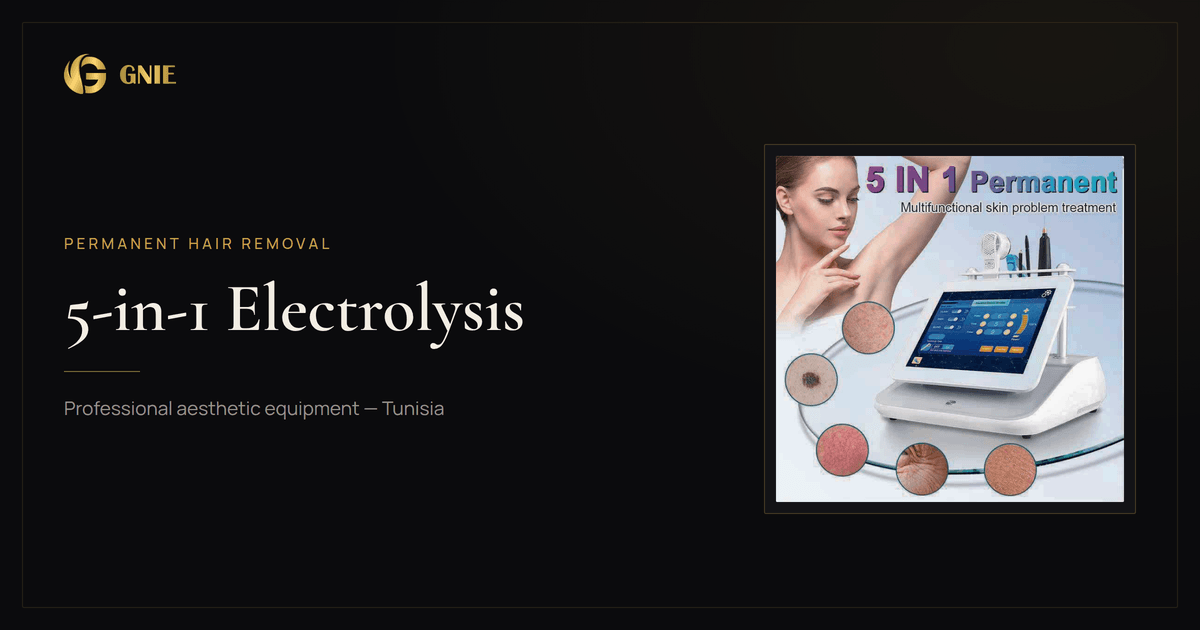
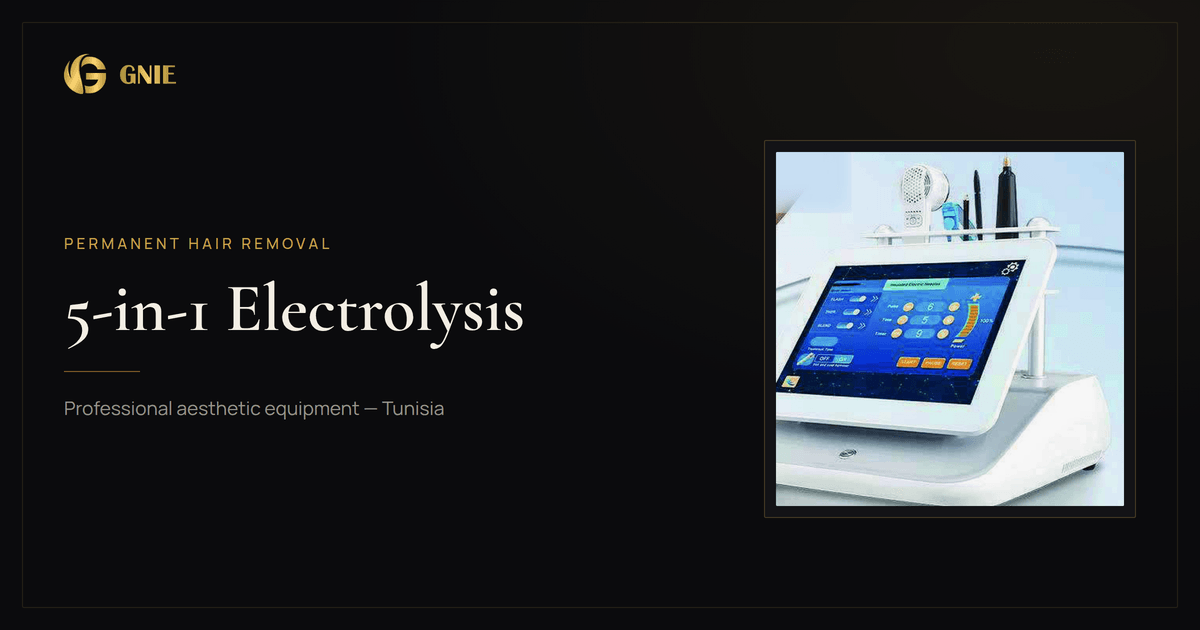
Per-page social cards; replace the Électrolyse hero
Every page shared one fallback image — a portrait logo at 831x1148, which a
summary_large_image card crops to a centre slice of the wordmark. Machine
pages were slightly worse: they passed the raw manufacturer hero, four of
which are under the 600px width where Facebook and LinkedIn degrade the card,
and none of which is anywhere near 1.91:1.

Adds scripts/og/, which renders 34 cards at 1200x630 — 12 machines x 2
languages plus home, catalogue, contact, legal and privacy per locale. The
page list comes from the content collection and the route table, so a 13th
machine needs no edit; a brand-new route stops the script rather than letting
it invent a title. Deterministic: two runs produce byte-identical files.
2077 KB total, 61 KB average.

Base.astro derives the card path from the page's own identity (locale, page
key, slug), so no page passes anything in; MachinePage no longer overrides it
with the raw photo. og:image:width/height/type/alt and twitter:image:alt are
emitted too, so scrapers lay the card out on first fetch instead of showing a
blank while they fetch it.

The Électrolyse hero is replaced. It was a manufacturer collage with burned-in
English marketing text ("5 IN 1 Permanent — Multifunctional skin problem
treatment") and five dermatological close-ups of skin lesions — foreign-
language copy on a French page, and imagery that reads as a medical claim for
what we sell as an épilation device. It appeared on the catalogue card, the
[…]

Changed region(s): [[0.6475, 0.2111, 0.9558, 0.8444], [0.925, 0.6032, 0.9558, 0.6333]]

diff --git a/docs/OG-IMAGES.md b/docs/OG-IMAGES.md
@@ -1,0 +1,107 @@
+# Social sharing images (Open Graph)
+
+Every public page has its own 1200×630 card in `public/og/`, so a link shared on
+WhatsApp, LinkedIn or Facebook shows that page — the machine, its category and
+its photo — instead of a generic logo.
+
+The cards are committed to the repository. They are build artefacts of
+`scripts/og/`, not hand-made files: never retouch a PNG, change the source and
+regenerate.
+
+## Regenerating
+
+```bash
+node scripts/og/generate.mjs                 # write every card
+node scripts/og/generate.mjs --check         # regenerate, write nothing, exit 1 if stale
+node scripts/og/generate.mjs machines/ems-16 # only outputs whose path contains this
+```
+
+The script needs Playwright and a Chromium binary. Neither is a dependency of
+the site, so neither is in `package.json`; the script finds a Playwright
+install and a Chromium under `/opt/pw-browsers` or `~/.cache/ms-playwright`, and
+both can be pointed at explicitly:
+
+```bash
+OG_PLAYWRIGHT=/path/to/node_modules/playwright/index.mjs \
+OG_CHROMIUM=/path/to/chrome-linux/chrome \
+node scripts/og/generate.mjs
+```
+
+Everything else it needs — `sharp`, the Cormorant Garamond and Manrope files,
+the brand marks, the machine photos — is already in the repo.
+
+The generator is deterministic: same sources in, byte-identical PNGs out.
+`--check` is therefore safe to run in CI to catch a machine whose name, category
+or photo changed without its card being regenerated.
+
+**Run it whenever** a machine is added, renamed or recategorised, a hero photo
+is replaced, a page title or the site tagline changes, or the brand marks
+change.
+
+## Naming
+
+The path mirrors the props `Base.astro` already receives:
+
+```
+/og/{locale}/{page}.png              home · machines · contact · legal · privacy
+/og/{locale}/machines/{slug}.png     one machine
+```
+
+`{page}` is the **page key** from `src/i18n/routes.ts` (`legal`, `privacy`),
+never the localized URL segment (`mentions-legales`, `confidentialite`), so the
+same expression works in both languages:
+
+```ts
+const ogPath = `/og/${locale}/${page}${slug ? `/${slug}` : ""}.png`;
+```
+
+Currently 34 files: 12 machines × 2 languages, plus home, catalogue, contact,
+legal notice and privacy policy × 2 languages. `/404` and `/dev/styleguide` have
+no card of their own — both declare `page="home"`, so they fall back to the
+French home card, which is the right thing for a page nobody shares deliberately.
+
+## What is on a card
+
+| Element | Machine page | Every other page |
+| --- | --- | --- |
+| Mark | GNIE mark + wordmark, top left | full logo lockup, centred |
+| Eyebrow | the machine's category label | the section label (`12 machines`, `Contact`…), dropped when it merely repeats the title |
+| Title | `name` from the machine file | the page's own heading, or its `<Base title>` |
+| Qualifier | the site tagline | the site tagline |
+| Photo | `heroImage`, contained in the site's own hairline plate | — |
+| Foot | `brand` when the machine has one | — |
+
+Nothing on a card is written here. Titles come from the page files, labels from
+`src/i18n/ui.ts`, machine copy from `src/content/machines/`, so a card can never
+say something the page does not, or drift into the other language.
+
+## How it works
+
+- `sources.mjs` discovers the pages: locales and dictionary from `src/i18n/ui.ts`,
+  page keys from `src/i18n/routes.ts`, machines from `src/content/machines/**`.
+  **A thirteenth machine needs no edit here.** A brand-new *route*, however, does:
+  add it to `PAGE_COPY` (where its title comes from, what its eyebrow is) or the
+  script stops with that instruction rather than inventing a title.
+- `card.mjs` builds one self-contained HTML document per card — the site's own
+  tokens, its self-hosted fonts embedded as base64, no network access at all.
+- `generate.mjs` renders each document in Chromium at 2× (2400×1260) and
+  resamples to 1200×630, so the type is supersampled real text, never upscaled.
+  The title's size is measured and reduced until it fits, so no name can clip.
+
+Two rules are measured from the photo rather than decided per machine:
+
+- **Light grounds are knocked out.** Manufacturer shots arrive on white studio
+  sweeps, blue key art and black sets alike. When the border of a shot really is
+  one flat light field, it is flooded away with a soft edge so the machine floats
+  on the near-black card instead of dropping a white slab into it. Everything
+  else is used exactly as delivered.
+- **The plate follows the shot.** Portrait shots get the site's 4:5 window; wider
+  ones get a shorter window (clamped at 1.35), so a wide studio scene is not
+  reduced to a stripe inside a tall empty frame.
+
+## Weight
+
+34 PNGs, ~2.0 MB in total — around 60 KB each, 88 KB at the worst. They are
+palette PNGs (256 colours) written by sharp; on artwork this flat there is no
+visible banding, and the type stays crisp. If a card ever exceeds ~150 KB,
+suspect a busy photo rather than the encoder.
